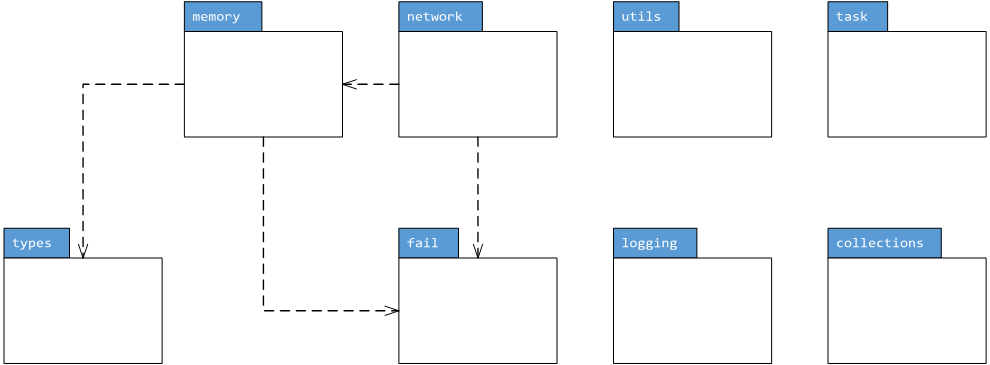
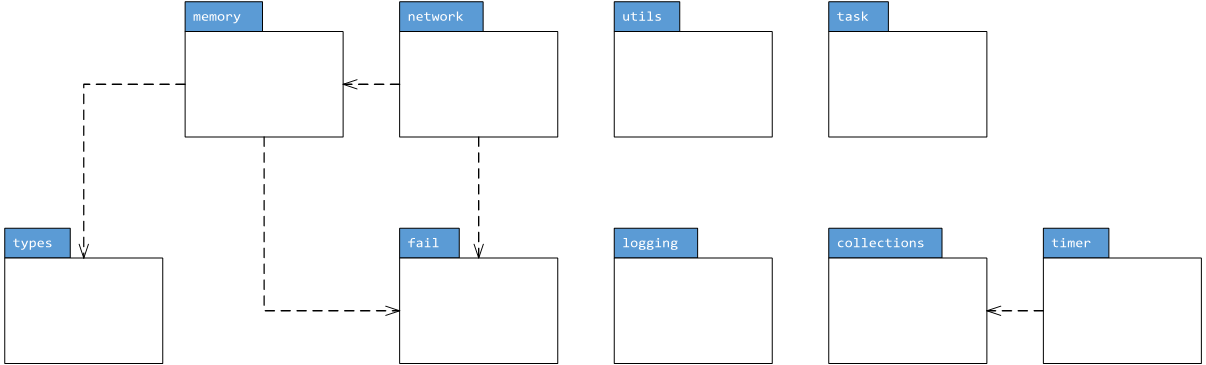
[doc] Enhancement: Updating UML for Timer Module

diff --git a/etc/README.md b/etc/README.md
@@ -9,6 +9,7 @@ Architectural Diagrams
 - [Network Module (`runtime::network`)](#network-module)
 - [Queue Module (`runtime::queue`)](#queue-module)
 - [Task Module (`runtime::task`)](#task-module)
+- [Timer Module (`runtime::timer`)](#timer-module)
 - [Collections Module (`runtime::collections`)](#collections-module)
 
 Package Overview
@@ -43,6 +44,9 @@ Task Module
 ------------
 ![Task Module](./img/runtime-task.png)
 
+Timer Module
+------------
+![Timer Module](./img/runtime-timer.png)
 
 Collections Module
 ------------
